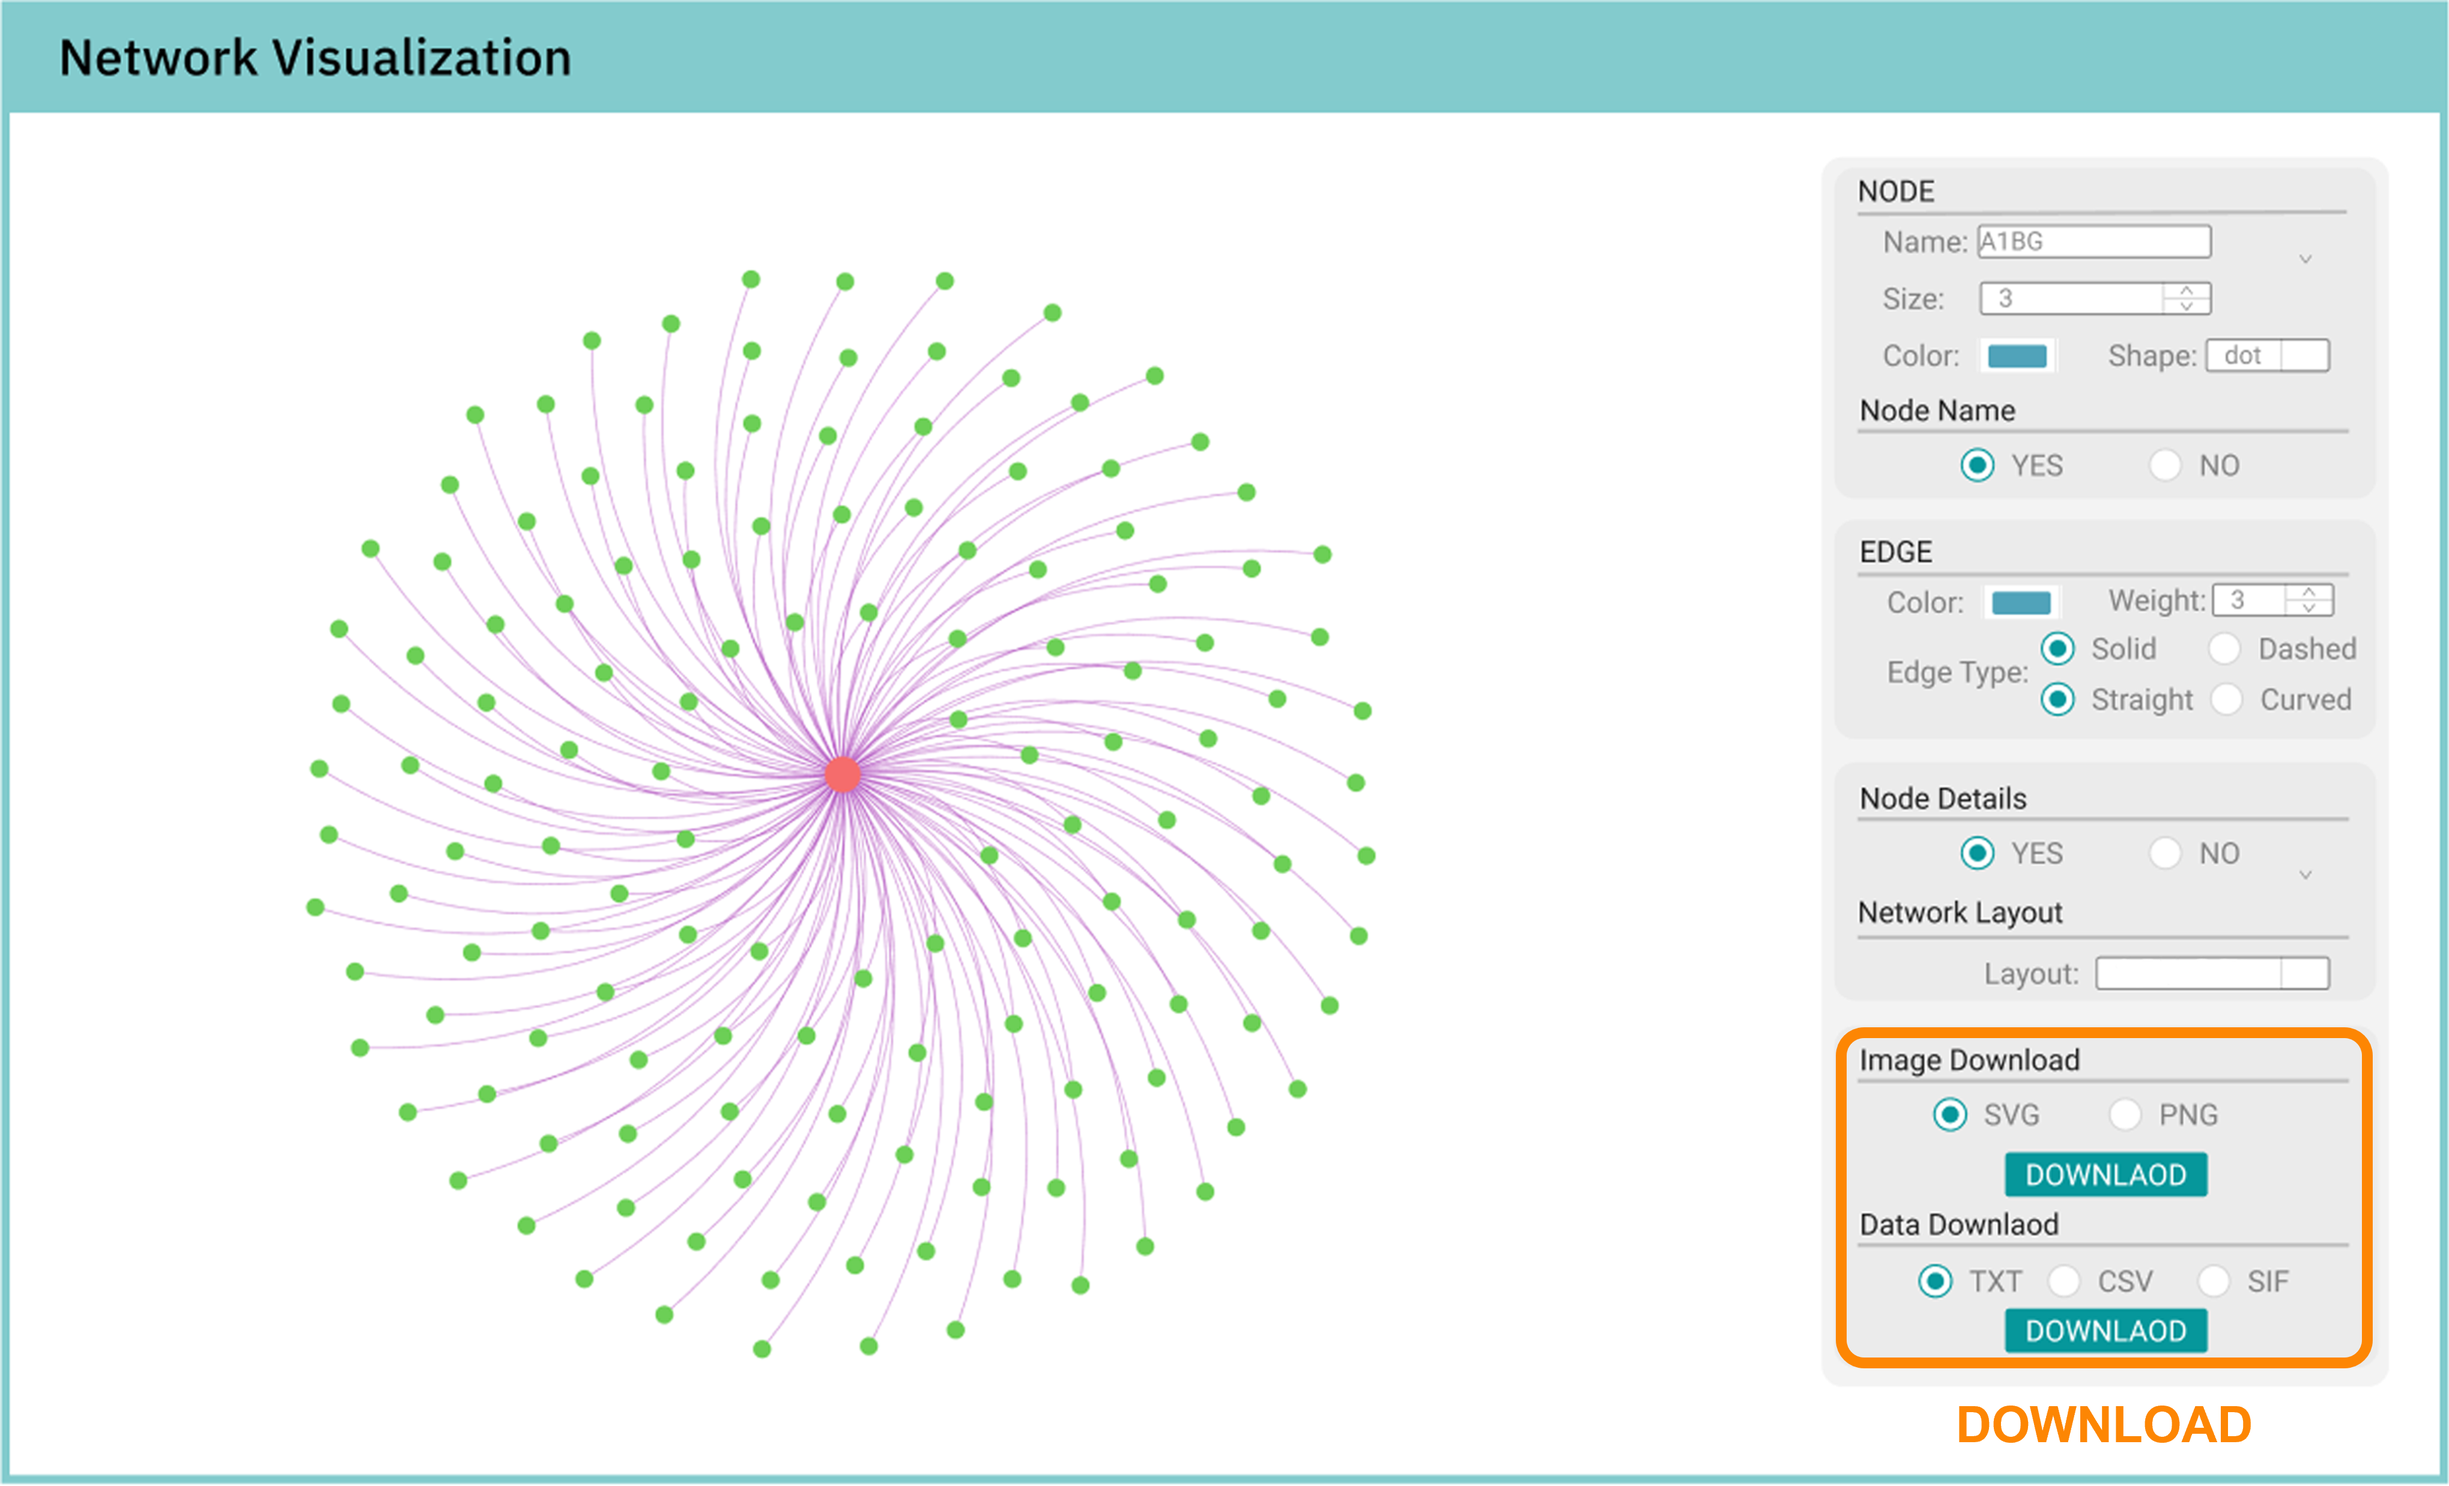
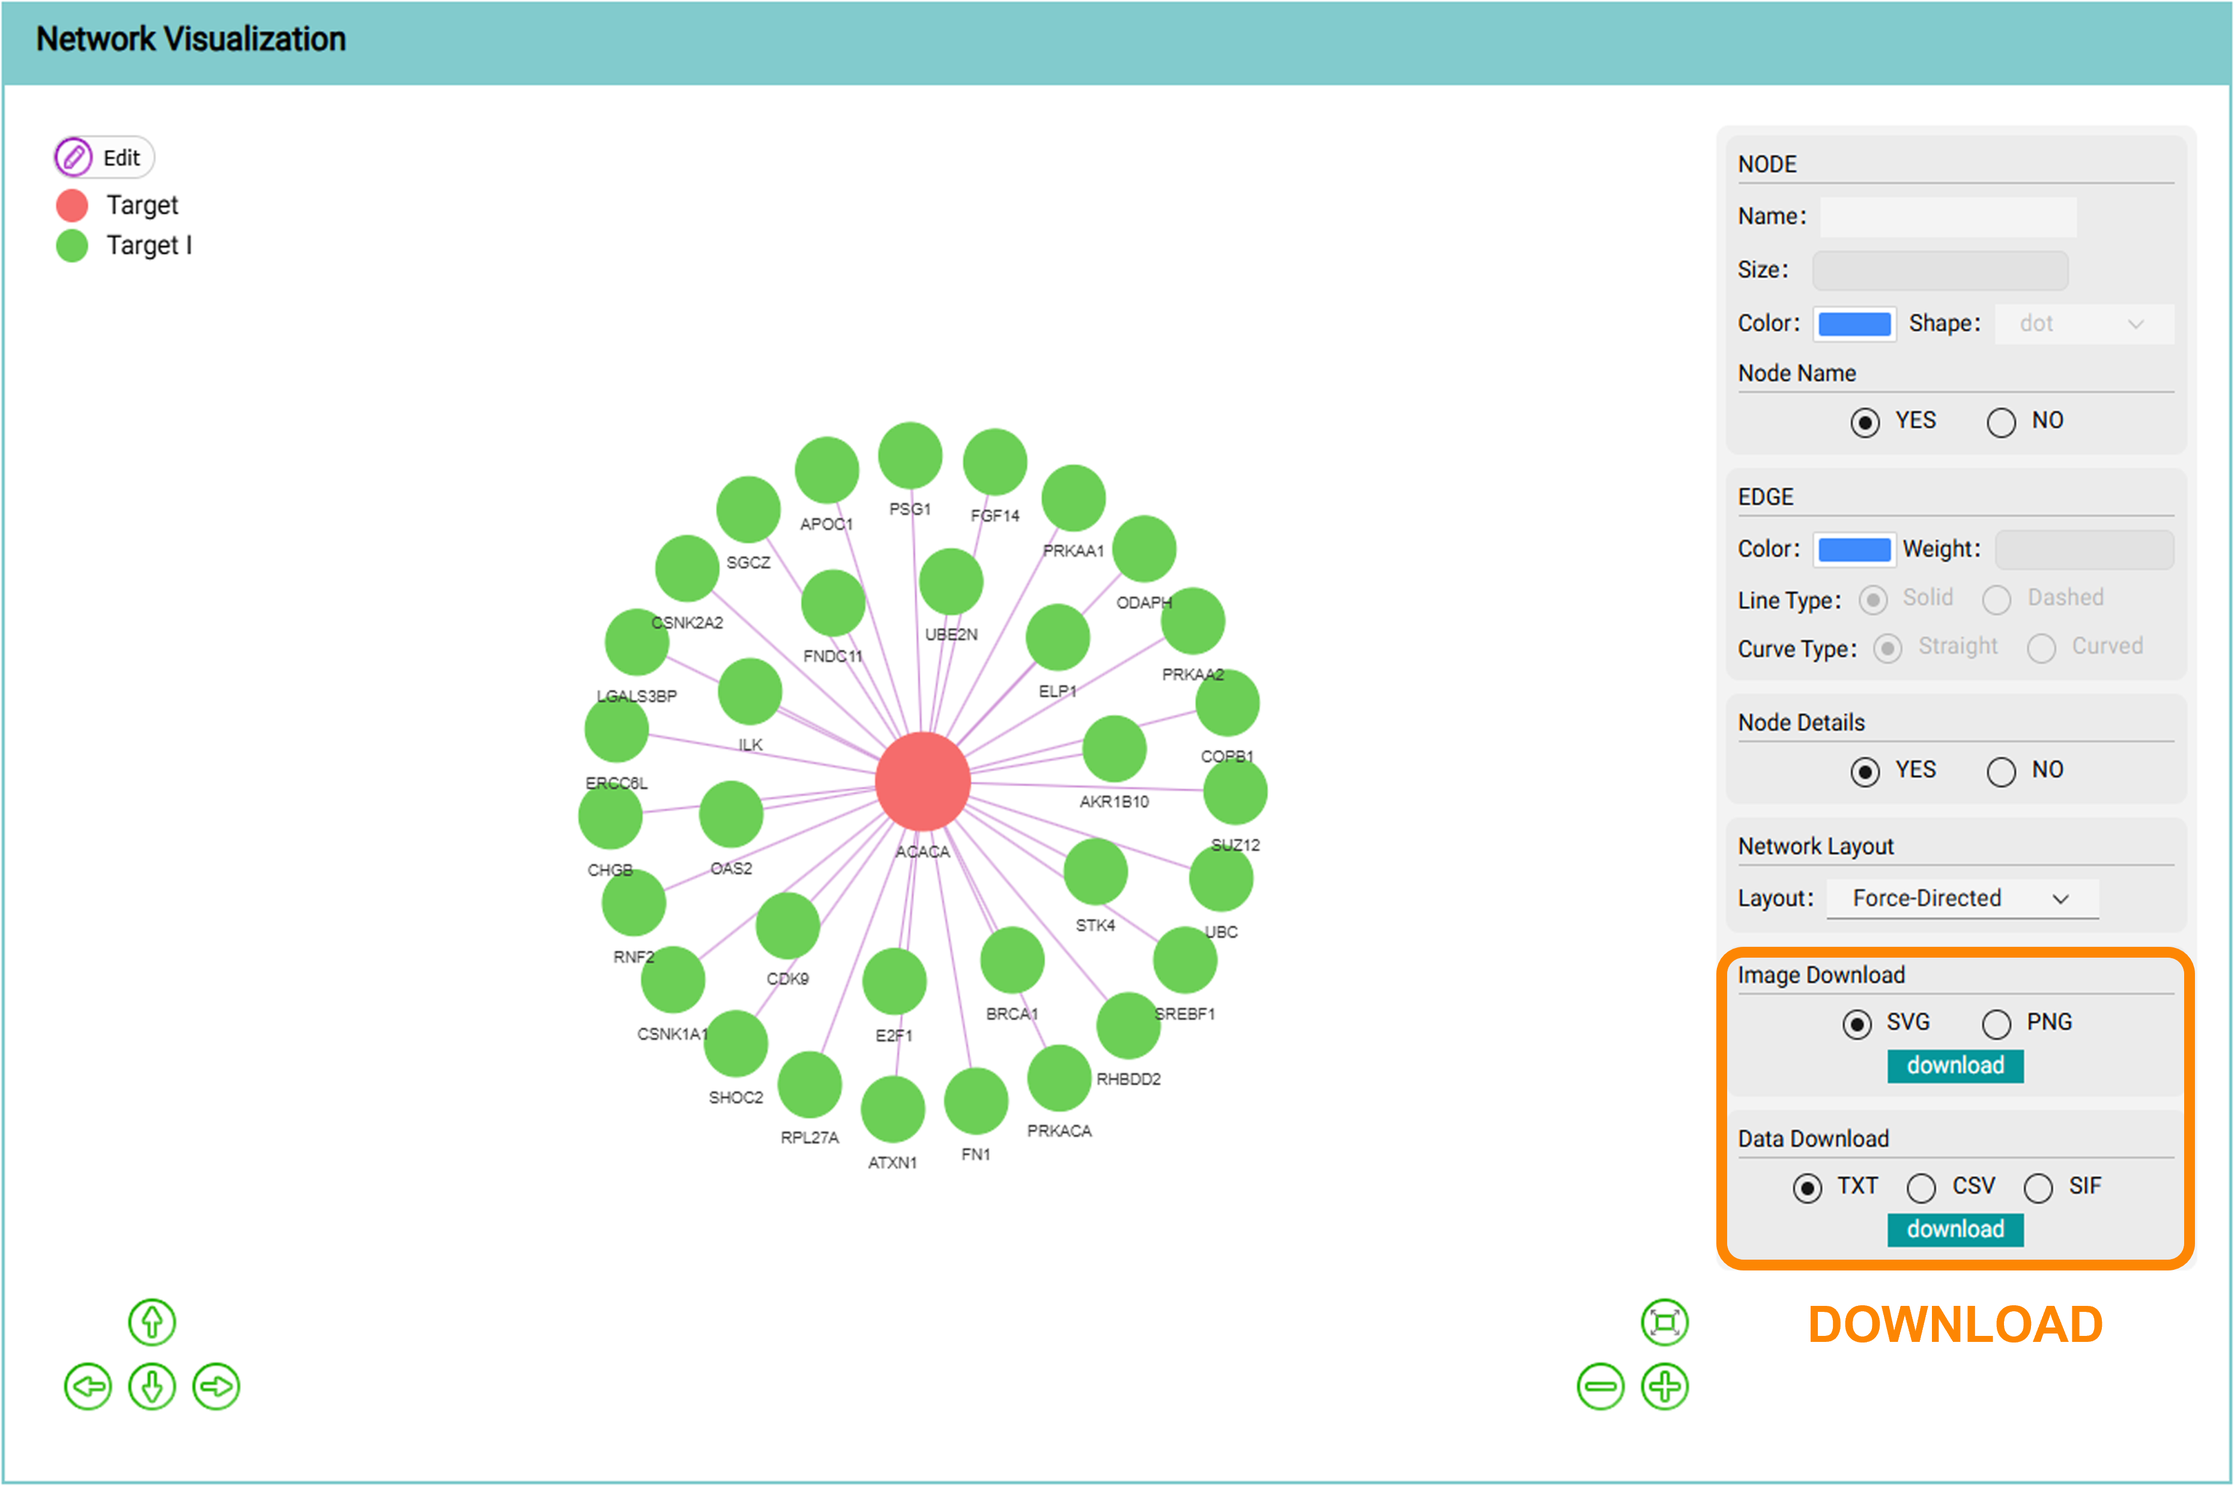
faq

diff --git a/tcm-aipp/docs/FAQ.md b/tcm-aipp/docs/FAQ.md
@@ -961,7 +961,7 @@ For multiple inputs, TCM-AIPP provides the statistic data regarding the potentia
 ![](../img/T5.png)
 ![](../img/T6.png)
 缺T7——富集
-缺T8——网络
+![](../img/T8.jpg)
 #### 3.4.2 TCM Flavor Prediction
 <p style={{ textAlign: "justify", textIndent: "2em" }}>
 Users can input SMILES string(s) of one or multiple compounds and click Submit to predict TCM flavors (click on the example to see the demo). Multiple input supports up to 1000 SMILES. We advise users to standardize SMILES via PubChem or RDKit before inputting them. The latest release of TCM-AIPP supports prediction of five flavors, including Bitter, Pungent, Salty, Sour and Sweet.
